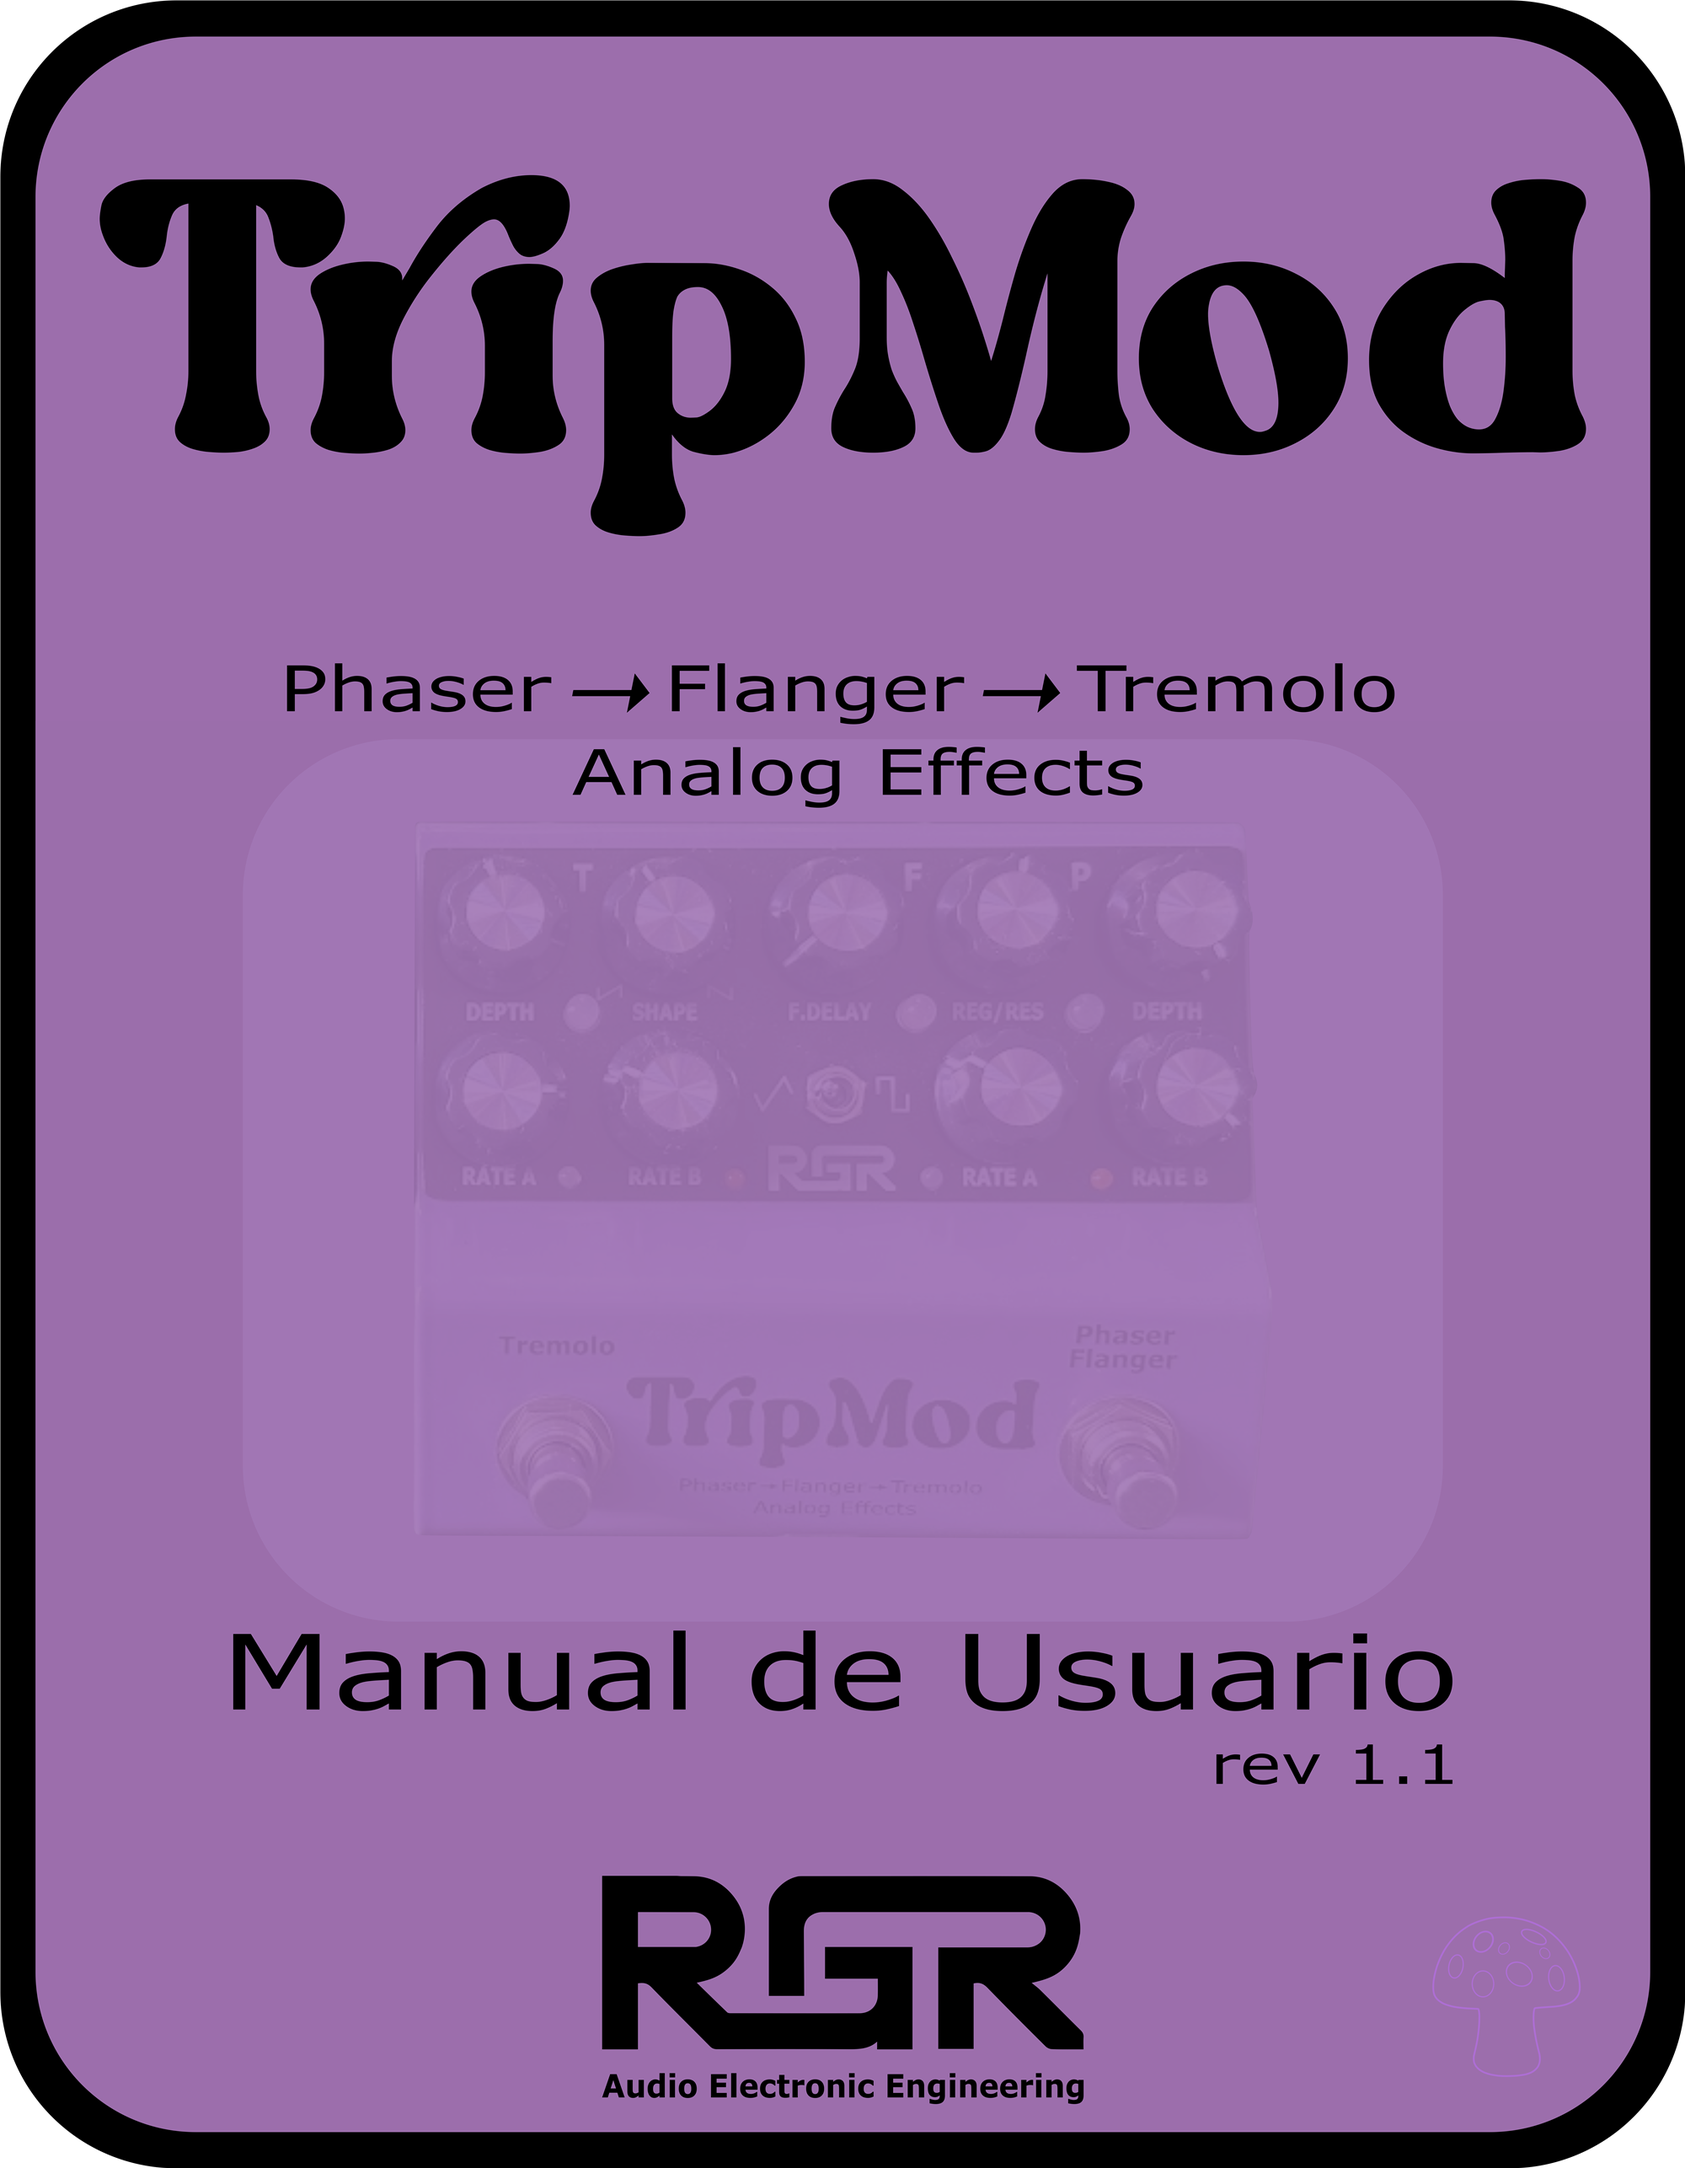
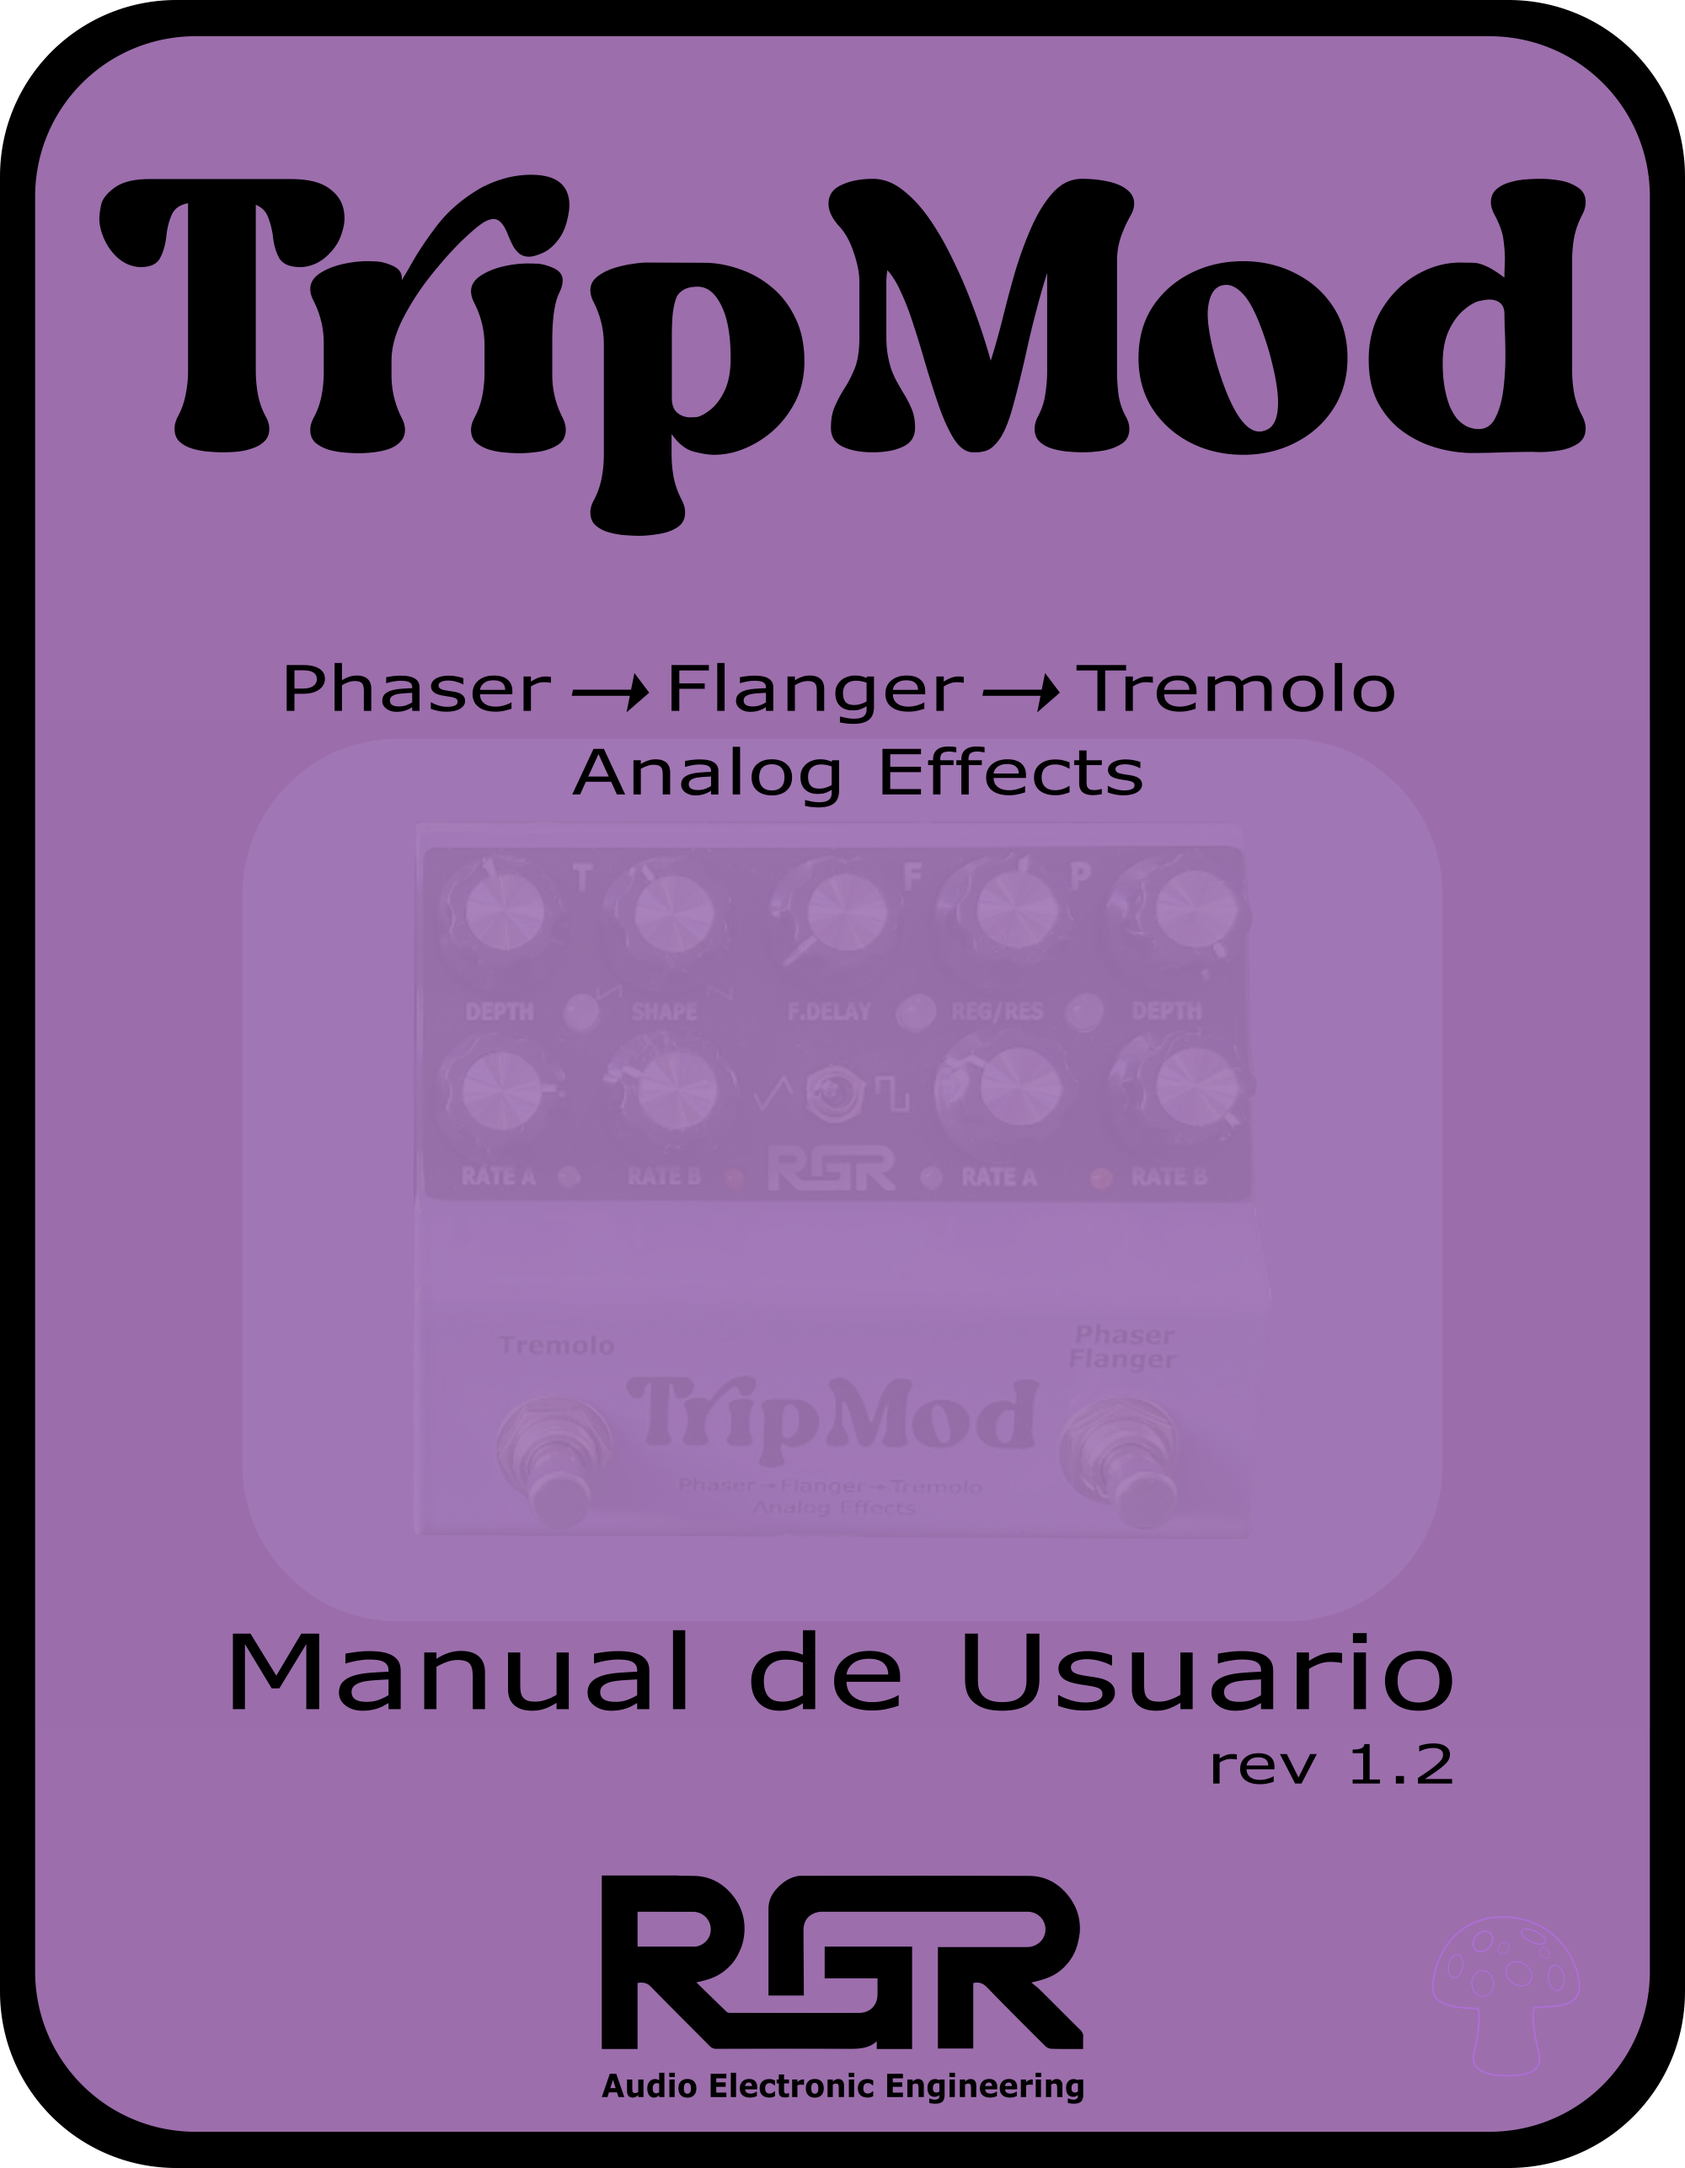
docs: v1.3 — carátulas actualizadas + texto modulación reescrito + CV imágenes reducidas

Changed region(s): [[0.806, 0.8084, 0.868, 0.8395], [0.713, 0.8084, 0.775, 0.8395]]

diff --git a/index.html b/index.html
@@ -859,23 +859,23 @@
   <h2 class="sec-front es">Modulación: el movimiento que vive en el sonido</h2>
   <h2 class="sec-front en">Modulation: The Movement Inside Sound</h2>
 
-  <p class="modintro-lead es">Todo sonido puede medirse en tres dimensiones: tono, timbre y volumen. Los efectos de modulación operan directamente sobre estas dimensiones, animándolas con el pulso hipnótico de un oscilador de baja frecuencia (LFO). No es un sonido estático al que se le agrega un adorno — es el propio sonido que respira, gira y oscila en el tiempo. El TripMod reúne tres de los efectos más icónicos y versátiles de la historia del audio.</p>
-  <p class="modintro-lead en">Every sound can be measured along three dimensions: pitch, timbre, and volume. Modulation effects operate directly on these dimensions, animating them with the hypnotic pulse of a low-frequency oscillator (LFO). This is not a static sound dressed up with ornamentation — it is the sound itself, breathing, spinning, and oscillating in time. The TripMod brings together three of the most iconic and versatile effects in the history of audio.</p>
+  <p class="modintro-lead es">Todo sonido tiene tres dimensiones: tono, timbre y volumen. Los efectos de modulación intervienen sobre esas dimensiones en movimiento — no agregan una capa encima, sino que hacen que el propio sonido respire, gire y pulse en el tiempo. El motor detrás de todo eso es el LFO, un oscilador de baja frecuencia que no produce audio sino que hace vibrar parámetros: velocidad de barrido, profundidad, forma de onda. Es la diferencia entre un sonido estático y uno que evoluciona solo. TripMod reúne tres de los efectos de modulación más icónicos de la historia del audio.</p>
+  <p class="modintro-lead en">Every sound has three dimensions: pitch, timbre, and volume. Modulation effects intervene on those dimensions in motion — they don't add a layer on top, but make the sound itself breathe, spin, and pulse through time. The engine behind all of this is the LFO, a low-frequency oscillator that produces no audio but makes parameters vibrate: sweep speed, depth, waveform shape. It is the difference between a static sound and one that evolves on its own. TripMod brings together three of the most iconic modulation effects in the history of audio.</p>
 
   <h3 class="sub es">Phaser — El barrido de fases</h3>
   <h3 class="sub en">Phaser — The Phase Sweep</h3>
-  <p class="es">En su núcleo, el Phaser crea pequeñas cancelaciones en el espectro de frecuencia que se desplazan continuamente, como si la señal estuviera en permanente rotación. El resultado es un movimiento vibrante y orgánico: a veces sutil como un halo en movimiento, a veces tan pronunciado que la guitarra parece hablar. Van Halen lo hizo rugir en <em>Eruption</em> (1978); Shuggie Otis lo usó para envolverse en un groove funky en <em>Strawberry Letter 23</em> (1971); Pink Floyd lo convirtió en textura atmosférica en incontables pasajes de sus discos.</p>
-  <p class="en">At its core, the Phaser creates small cancellations across the frequency spectrum that shift continuously, as if the signal were in permanent rotation. The result is a vibrant, organic movement — sometimes subtle as a halo of motion, sometimes so pronounced the guitar seems to speak. Van Halen made it roar on <em>Eruption</em> (1978); Shuggie Otis used it to wrap himself in a funky groove on <em>Strawberry Letter 23</em> (1971); Pink Floyd turned it into atmospheric texture across countless passages of their records.</p>
+  <p class="es">En su núcleo, el Phaser divide la señal en dos caminos, desplaza la fase de uno de ellos con un filtro variable y los recombina. Esa recombinación genera cancelaciones parciales que se mueven a lo largo del espectro — el resultado es ese movimiento ondulante y orgánico que puede ir desde un halo sutil hasta una guitarra que parece hablar. Van Halen lo hizo rugir en <em>Eruption</em> (1978) con un MXR Phase 90 corriendo lento bajo cada nota del tapping; Shuggie Otis lo usó para darle un groove funky y espacial a <em>Strawberry Letter 23</em> (1971); Pink Floyd lo convirtió en textura atmosférica en incontables pasajes de <em>Wish You Were Here</em>.</p>
+  <p class="en">At its core, the Phaser splits the signal into two paths, shifts the phase of one of them with a variable filter, and recombines them. That recombination creates partial cancellations that move across the spectrum — the result is that undulating, organic movement that can range from a subtle halo to a guitar that seems to speak. Van Halen made it roar on <em>Eruption</em> (1978) with an MXR Phase 90 running slow under every tapping note; Shuggie Otis used it to give a funky, spacious groove to <em>Strawberry Letter 23</em> (1971); Pink Floyd turned it into atmospheric texture throughout countless passages of <em>Wish You Were Here</em>.</p>
 
   <h3 class="sub es">Flanger — El vuelo de la cinta</h3>
   <h3 class="sub en">Flanger — The Tape Flight</h3>
-  <p class="es">El Flanger nació de una técnica de estudio en la que los ingenieros presionaban físicamente el borde (flange) de un carrete de cinta para crear un retardo microscópico y variable. La mezcla de la señal directa con su reflejo tardío genera un filtro de peine en movimiento: ese efecto de avión a reacción que se reconoce de inmediato. Hendrix lo inmortalizó en <em>Bold as Love</em> (1967); Heart lo disparó al arranque explosivo de <em>Barracuda</em> (1977); Led Zeppelin lo incorporó al viaje denso de <em>Whole Lotta Love</em>.</p>
-  <p class="en">The Flanger was born from a studio technique in which engineers physically pressed the flange (rim) of a tape reel to create a microscopic, variable delay. The blend of the direct signal with its slightly-late reflection creates a moving comb filter: that jet-plane sweep you recognize instantly. Hendrix immortalized it on <em>Bold as Love</em> (1967); Heart launched it into the explosive opening of <em>Barracuda</em> (1977); Led Zeppelin rode it through the dense journey of <em>Whole Lotta Love</em>.</p>
+  <p class="es">El Flanger nació de una técnica de estudio en la que los ingenieros presionaban físicamente el borde del carrete de cinta para crear un retardo mínimo y variable. Mezclar la señal directa con esa copia retardada genera un filtro de peine en movimiento: ese efecto de avión a reacción, ese whoosh metálico que se percibe con facilidad. Hendrix lo inmortalizó en <em>Bold as Love</em> (1967); Heart lo disparó al arranque explosivo de <em>Barracuda</em> (1977) con un flanger analógico hecho a medida; The Police lo convirtieron en parte de su identidad en <em>Walking on the Moon</em>; y Robert Smith de The Cure lo llevó al extremo apilando múltiples unidades para construir el paisaje onírico de <em>A Forest</em>.</p>
+  <p class="en">The Flanger was born from a studio technique in which engineers physically pressed the rim of a tape reel to create a minimal, variable delay. Blending the direct signal with that slightly-delayed copy creates a moving comb filter: that jet-plane effect, that metallic whoosh that is immediately recognizable. Hendrix immortalized it on <em>Bold as Love</em> (1967); Heart launched it into the explosive opening of <em>Barracuda</em> (1977) with a custom-built analog flanger; The Police made it part of their identity on <em>Walking on the Moon</em>; and Robert Smith of The Cure took it to the extreme by stacking multiple units to build the dreamlike landscape of <em>A Forest</em>.</p>
 
   <h3 class="sub es">Tremolo — El pulso que no para</h3>
   <h3 class="sub en">Tremolo — The Unstoppable Pulse</h3>
-  <p class="es">El más primitivo de los tres — y el más universal. El tremolo modula el volumen de la señal con el LFO, creando ese pulso rítmico que va desde el latido más sutil hasta el corte abrupto total. Ya estaba en los amplificadores Fender y Gibson de los años 50, y fue el sonido del surf californiano de Dick Dale. The Edge lo convirtió en el motor de <em>Pride (In the Name of Love)</em> de U2; Radiohead lo usó en <em>The National Anthem</em>; Jack White lo trató con crueza a lo largo de toda su carrera. No modula el tono — modula la amplitud. Y eso es todo lo que necesita.</p>
-  <p class="en">The most primitive of the three — and the most universal. Tremolo modulates the volume of the signal with the LFO, creating a rhythmic pulse that ranges from the subtlest heartbeat to a full, abrupt cut. It was already in Fender and Gibson amplifiers in the 1950s, and was the defining sound of Dick Dale's California surf. The Edge turned it into the engine of U2's <em>Pride (In the Name of Love)</em>; Radiohead used it on <em>The National Anthem</em>; Jack White treated it with rawness throughout his entire career. It doesn't modulate pitch — it modulates amplitude. And that is everything it needs.</p>
+  <p class="es">El más primitivo de los tres — y el más universal. El Tremolo modula el volumen de la señal con el LFO, creando ese pulso rítmico que va desde el latido más sutil hasta el corte abrupto total. Ya estaba integrado en los amplificadores Fender y Gibson de los años 50, y fue el sonido del surf californiano de Dick Dale y el corazón del blues eléctrico de esa época. Jonny Greenwood y Ed O'Brien de Radiohead lo usan como elemento rítmico y textural; Jack White lo explora crudo y agresivo; Tom Waits lo convirtió en una pulsación oscura e hipnótica que se volvió su sello. No modula el tono — modula la amplitud. Y eso es todo lo que necesita.</p>
+  <p class="en">The most primitive of the three — and the most universal. The Tremolo modulates the volume of the signal with the LFO, creating that rhythmic pulse that ranges from the subtlest heartbeat to a full, abrupt cut. It was already built into Fender and Gibson amplifiers in the 1950s, and was the sound of Dick Dale's California surf and the heart of the electric blues of that era. Jonny Greenwood and Ed O'Brien of Radiohead use it as a rhythmic and textural element; Jack White explores it raw and aggressive; Tom Waits turned it into a dark, hypnotic pulse that became his signature. It doesn't modulate pitch — it modulates amplitude. And that is everything it needs.</p>
 
   <div class="page-footer">
     <img src="assets/logo-rgr.png" class="footer-logo-rgr" alt="RGR">
@@ -1805,9 +1805,9 @@
 
   <div style="text-align:center; margin: 2mm 0 3mm 0;">
     <img src="assets/cv-plug-es.png" alt="Conexión CV" class="es"
-         style="max-width:100%; max-height:55mm; object-fit:contain;">
+         style="max-width:100%; max-height:44mm; object-fit:contain;">
     <img src="assets/cv-plug-en.png" alt="CV Connection" class="en"
-         style="max-width:100%; max-height:55mm; object-fit:contain;">
+         style="max-width:100%; max-height:44mm; object-fit:contain;">
   </div>
 
   <h3 class="sub es">Especificaciones de la señal CV</h3>
